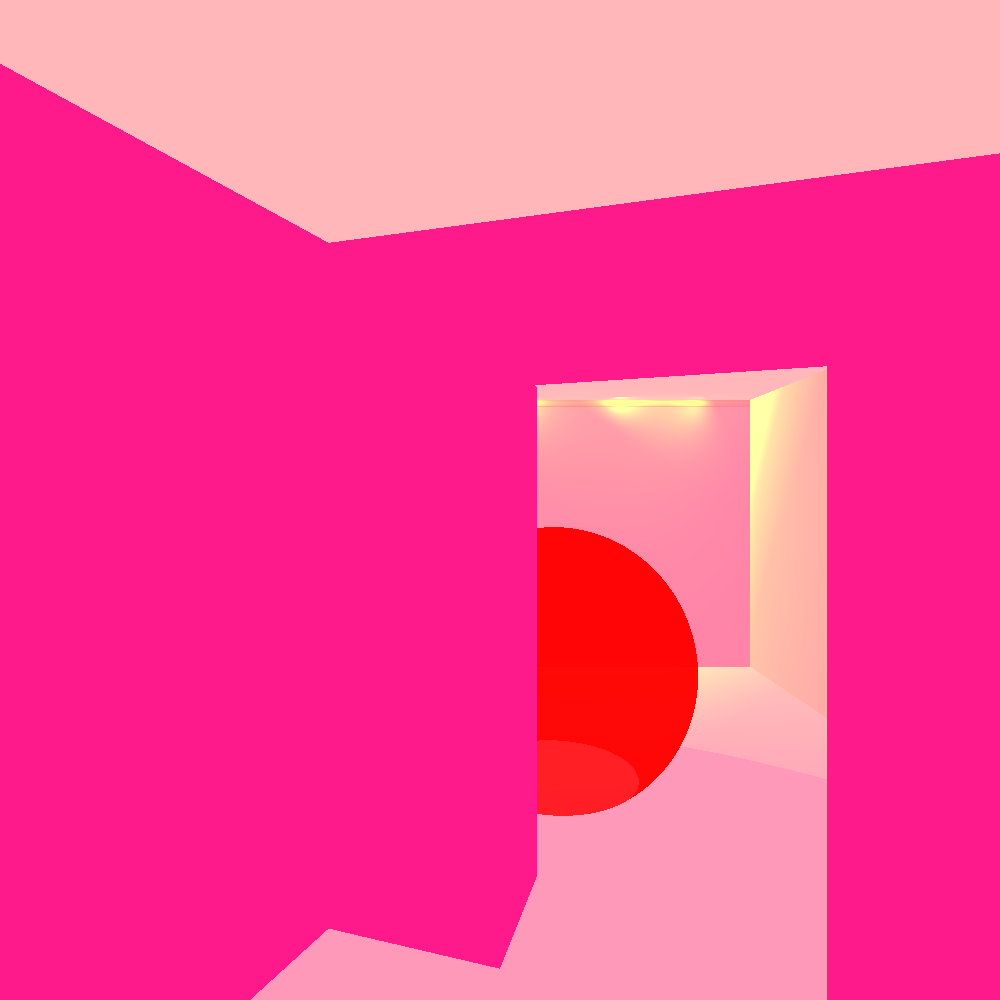
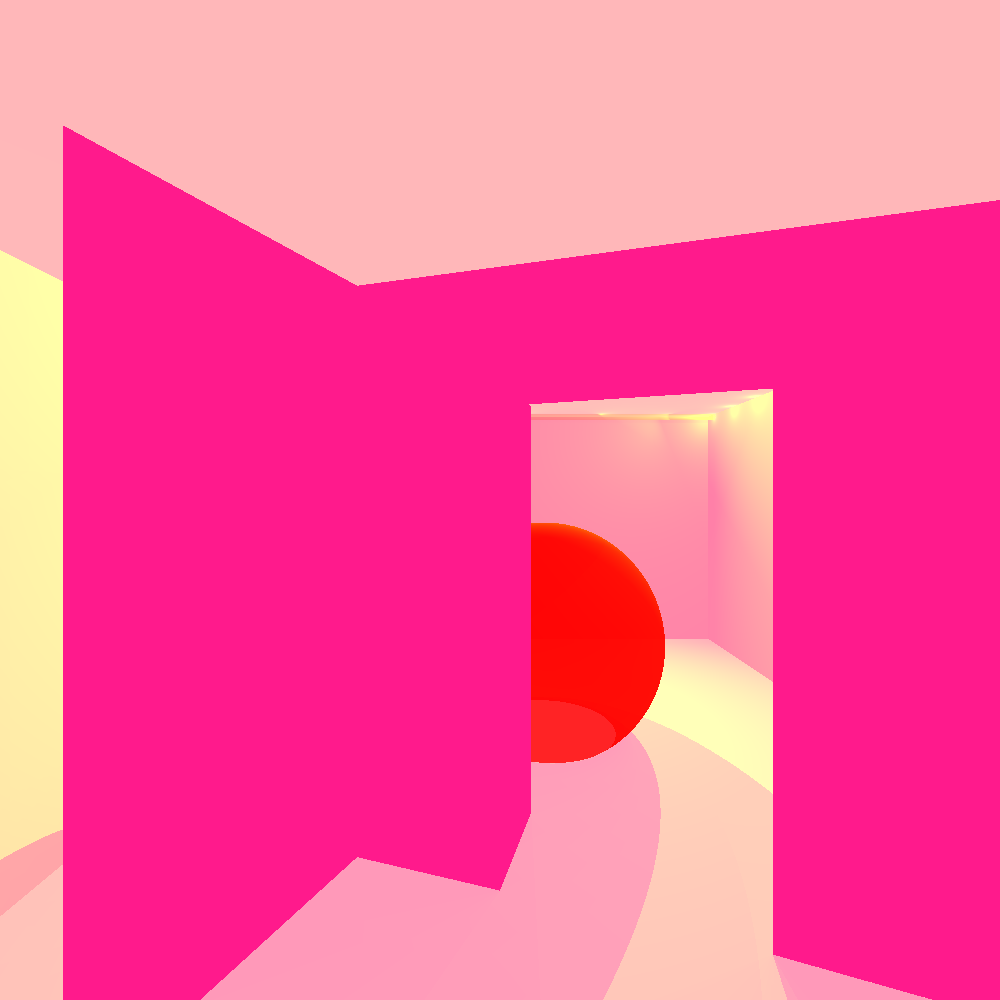
pink room with one led, point lights, spotlights and shaddows

Changed region(s): [[0.186, 0.341, 0.93, 1.0], [0.0, 0.062, 1.0, 1.0]]

diff --git a/unitTests/renderer/pinkRoomWithLed.java b/unitTests/renderer/pinkRoomWithLed.java
@@ -1,12 +1,14 @@
 package renderer;
-//
-//import org.junit.jupiter.api.Test;
-//import lighting.*;
-//import primitives.*;
-//import geometries.*;
-//import scene.Scene;
-//
-//import static java.awt.Color.*;
+
+import org.junit.jupiter.api.Test;
+
+
+import lighting.*;
+import primitives.*;
+import geometries.*;
+import scene.Scene;
+
+import static java.awt.Color.*;
 
 import geometries.*;
 import lighting.SpotLight;
@@ -17,13 +19,13 @@ import scene.Scene;
 import static java.awt.Color.RED;
 import static java.awt.Color.YELLOW;
 
-public class pinkRoomWithLed {
+    public class pinkRoomWithLed {
 
-    /**
-     * The final picture of miniProject2
-     */
-    @Test
-    public void miniProject1() {
+        /**
+         * The final picture of miniProject2
+         */
+        @Test
+        public void miniProject1() {
 
         Scene scene1 = new Scene.SceneBuilder("Test scene")
                 .build();
@@ -31,7 +33,7 @@ public class pinkRoomWithLed {
         Camera camera3 = new Camera(new Point(-40, 50, 160),
                 new Vector(0, 0, -1), new Vector(0, 1, 0)) //
                 .setVPSize(200, 200) //
-                .setVPDistance(120);
+                .setVPDistance(100);
 
         Geometry floor = new Plane(new Point(0, 0, 0), new Vector(0, 1, 0))
                 .setEmission(new Color(255, 153, 185))
@@ -53,9 +55,6 @@ public class pinkRoomWithLed {
                 .setEmission(new Color(255, 128, 168))
                 .setMaterial(new Material().setKd(0.5));
 
-//        Geometry Sphere = new Sphere(new Point(-30, 20, 50), 25)
-//                .setEmission(new Color(RED))
-//                .setMaterial(new Material().setKd(0.5).setKt(0.2).setShininess(100));
 
         Geometry Sphere1 = new Sphere(new Point(-30, 20, 50), 25)
                 .setEmission(new Color(RED))
@@ -111,7 +110,7 @@ public class pinkRoomWithLed {
 
 
         double radius = 1;
-        Ray axisray = new Ray(new Point(0, 79, -20), new Vector(1, 0, 0));
+        Ray axisray = new Ray(new Point(0, 79, -15), new Vector(1, 0, 0));
         double length = 0.1;
 
         Geometry led = new Cylinder( radius, axisray, length)
@@ -121,39 +120,49 @@ public class pinkRoomWithLed {
 
         //spot lights:
         {// right
-            scene1.lights.add(new SpotLight(new Color(YELLOW).scale(.8),
+            scene1.lights.add(new SpotLight(new Color(YELLOW).scale(1),
                     new Point(20, 79, -15),
-                    new Vector(-100, -40, -100)));
+                    new Vector(-100, -40, 50)));
         }
 
         {//middle
-            scene1.lights.add(new SpotLight(new Color(YELLOW).scale(.8),
+            scene1.lights.add(new SpotLight(new Color(YELLOW).scale(1),
                     new Point(-32, 79, -15),
-                    new Vector(0, 0, -100)));
+                    new Vector(0, 0, 50)));
         }
 
-        {//left
-            scene1.lights.add(new SpotLight(new Color(YELLOW).scale(.8),
-                    new Point(-85, 79, -15),
-                    new Vector(100, -40, -100)));
-        }
+//        {//left
+//            scene1.lights.add(new SpotLight(new Color(YELLOW).scale(1),
+//                    new Point(-85, 79, -15),
+//                    new Vector(100, -40, -100)));
+//        }
 
-        {//left - middle
-            scene1.lights.add(new SpotLight(new Color(YELLOW).scale(1.5),
-                    new Point(-57, 79, -15),
-                    new Vector(40, 60, -100)));
-        }
+//        {//left - middle
+//            scene1.lights.add(new SpotLight(new Color(YELLOW).scale(1),
+//                    new Point(-57, 79, -15),
+//                    new Vector(40, 60, -100)));
+//        }
 
         {//right - middle
-            scene1.lights.add(new SpotLight(new Color(YELLOW).scale(1.5),
+            scene1.lights.add(new SpotLight(new Color(YELLOW).scale(1),
                     new Point(-5, 79, -15),
-                    new Vector(40, 60, -100)));
+                    new Vector(40, 60, 50)));
         }
+
+        //points lights//
+         for(int i = -15; i < 100; i+=15) {
+             scene1.lights.add(new PointLight(new Color(YELLOW),
+                     new Point(34, 79, i),
+                     1,
+                     0.01111,
+                     0.0111));
+         }
+
 
        scene1.geometries.add(roof, wallRight, wallLeft, wallFront, floor, led, Sphere1, door0, door1, door2, door3, door4, door5);
 
         ImageWriter imageWriter = new ImageWriter("pinkRoom", 1000, 1000);
         camera3.setImageWriter(imageWriter)
                 .setRayTracer(new RayTracerBasic(scene1)).renderImage().writeToImage();
+        }
     }
-}

diff --git a/unitTests/geometries/SphereTests.java b/unitTests/geometries/SphereTests.java
@@ -87,9 +87,9 @@ class SphereTests {
         ray = new Ray(new Point(0.59, 0, 0), new Vector(-0.59, 0, 0));
         assertEquals(List.of(new Point(0, 0, 0)), sphere.findIntersections(ray));
 
-        // TC16: Ray starts at the center (1 point)
-        Ray ray1 = new Ray(new Point(1, 0, 0), new Vector(2, 2, 0));
-        assertThrows(IllegalArgumentException.class, () -> sphere.findIntersections(ray1));
+//        // TC16: Ray starts at the center (1 point)
+//        Ray ray1 = new Ray(new Point(1, 0, 0), new Vector(2, 2, 0));
+//        assertThrows(IllegalArgumentException.class, () -> sphere.findIntersections(ray1));
 
         // TC17: Ray starts at sphere and goes outside (0 points)
         ray = new Ray(new Point(2, 0, 0), new Vector(2, 0, 0));
